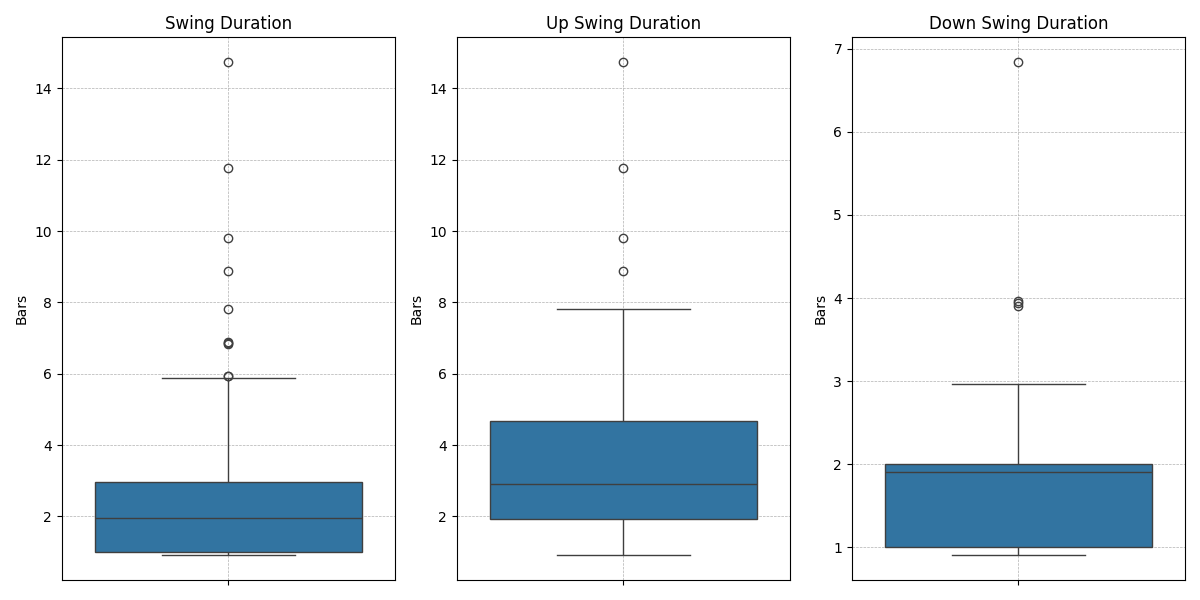
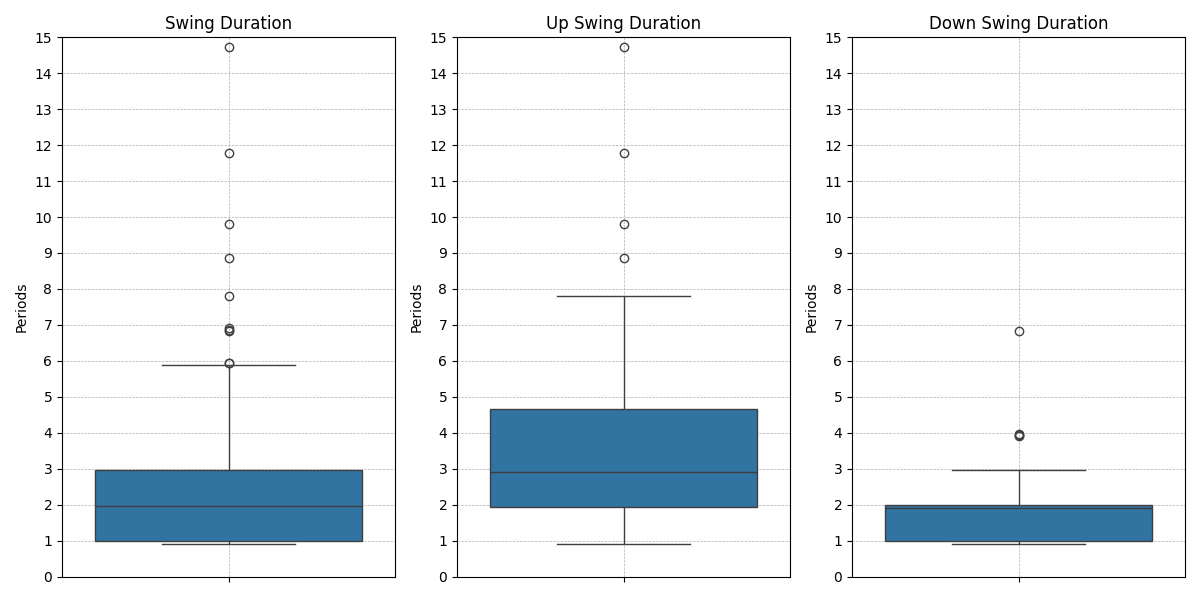
modified:   swing-study/swing-size-ratio-boxplot.png

diff --git a/swing-study/swing-study.py b/swing-study/swing-study.py
@@ -223,43 +223,87 @@ with open('./swing-study/swing-stats.txt', 'w') as f:
 # ------------------------------------------------------------------------------------
 # Box plots for swing metrics
 # ------------------------------------------------------------------------------------
-# Size Ratio
+# Swing Size Ratio
+
+# Determine common y-axis limits
+# y_min = swing_df['Swing_Size_Ratio'].min()
+y_min = 0  # set minimum to 0 for better visualization
+y_max = swing_df['Swing_Size_Ratio'].max()
+
+y_ticks = np.arange(int(np.floor(y_min)), int(np.ceil(y_max)) + 1, 1)
+
+
 plt.figure(figsize=(12, 6))
+
+# First subplot
 plt.subplot(1, 3, 1)
 sns.boxplot(data=swing_df, y='Swing_Size_Ratio')
 plt.title('Swing Size Ratio')
-plt.ylabel('ATR%')  
+plt.ylabel('ATR%')
+plt.ylim(y_min, y_max)
+plt.yticks(y_ticks)
 plt.grid(True, which="both", ls="--", linewidth=0.5)
+
+# Second subplot
 plt.subplot(1, 3, 2)
 sns.boxplot(data=up_swing_df, y='Swing_Size_Ratio')
-plt.title('Up Swing Size Ratio')   
+plt.title('Up Swing Size Ratio')
 plt.ylabel('ATR%')
+plt.ylim(y_min, y_max)
+plt.yticks(y_ticks)
 plt.grid(True, which="both", ls="--", linewidth=0.5)
+
+# Third subplot
 plt.subplot(1, 3, 3)
 sns.boxplot(data=down_swing_df, y='Swing_Size_Ratio')
 plt.title('Down Swing Size Ratio')
 plt.ylabel('ATR%')
+plt.ylim(y_min, y_max)
+plt.yticks(y_ticks)
 plt.grid(True, which="both", ls="--", linewidth=0.5)
+
 plt.tight_layout()
 plt.savefig('./swing-study/swing-size-ratio-boxplot.png')
 # plt.show()
 
+# ------------------------------------------------------------------------------------
 # Duration
+
+# Determine common y-axis limits
+# y_min = swing_df['Swing_Duration'].min()
+y_min = 0
+y_max = swing_df['Swing_Duration'].max()
+
+y_ticks = np.arange(int(np.floor(y_min)), int(np.ceil(y_max)) + 1, 1)
+
+
 plt.figure(figsize=(12, 6))
+
+# First subplot
 plt.subplot(1, 3, 1)
 sns.boxplot(data=swing_df, y='Swing_Duration')
 plt.title('Swing Duration')
-plt.ylabel('Bars')
+plt.ylabel('Periods')
+plt.ylim(y_min, y_max)
+plt.yticks(y_ticks)
 plt.grid(True, which="both", ls="--", linewidth=0.5)
+
+# Second subplot
 plt.subplot(1, 3, 2)
 sns.boxplot(data=up_swing_df, y='Swing_Duration')
 plt.title('Up Swing Duration')
-plt.ylabel('Bars')
+plt.ylabel('Periods')
+plt.ylim(y_min, y_max)
+plt.yticks(y_ticks)
 plt.grid(True, which="both", ls="--", linewidth=0.5)
+
+# Third subplot
 plt.subplot(1, 3, 3)
 sns.boxplot(data=down_swing_df, y='Swing_Duration')
 plt.title('Down Swing Duration')
-plt.ylabel('Bars')
+plt.ylabel('Periods')
+plt.ylim(y_min, y_max)
+plt.yticks(y_ticks)
 plt.grid(True, which="both", ls="--", linewidth=0.5)
 plt.tight_layout()
 plt.savefig('./swing-study/swing-duration-boxplot.png')
